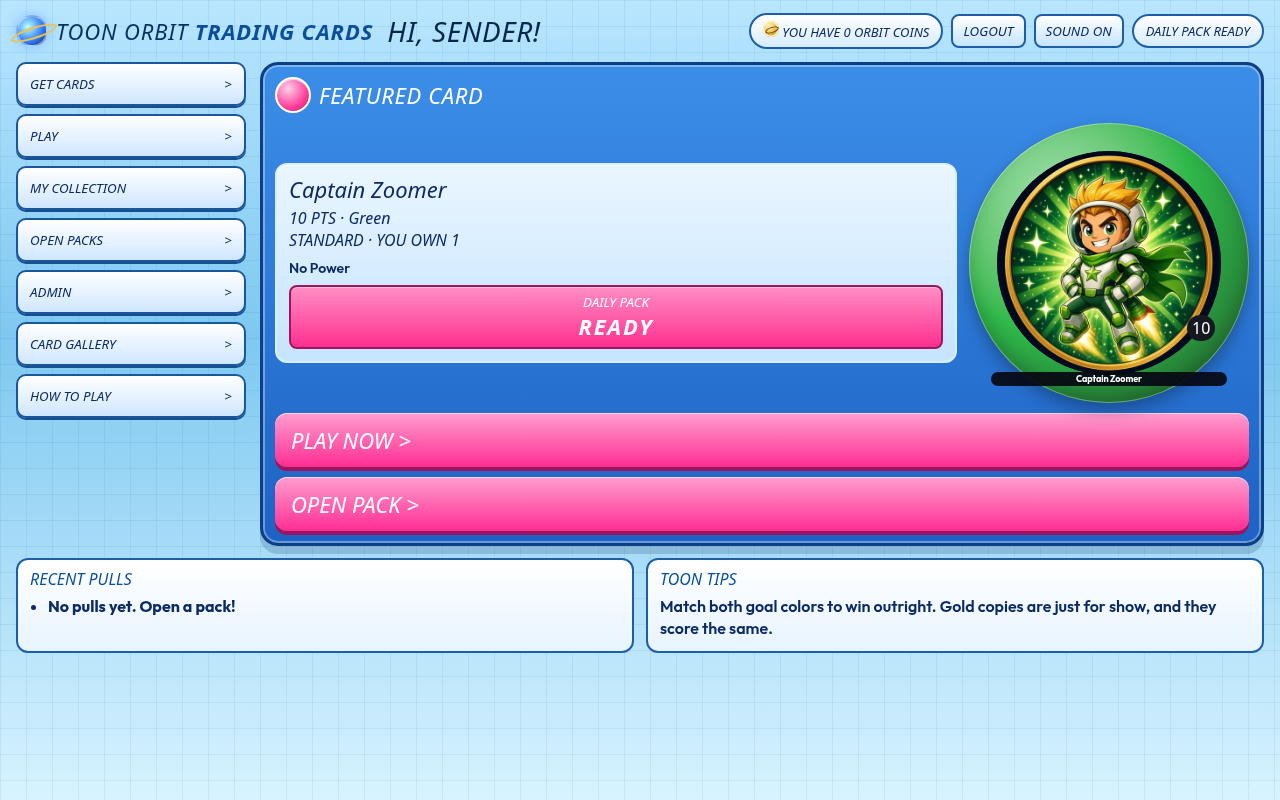
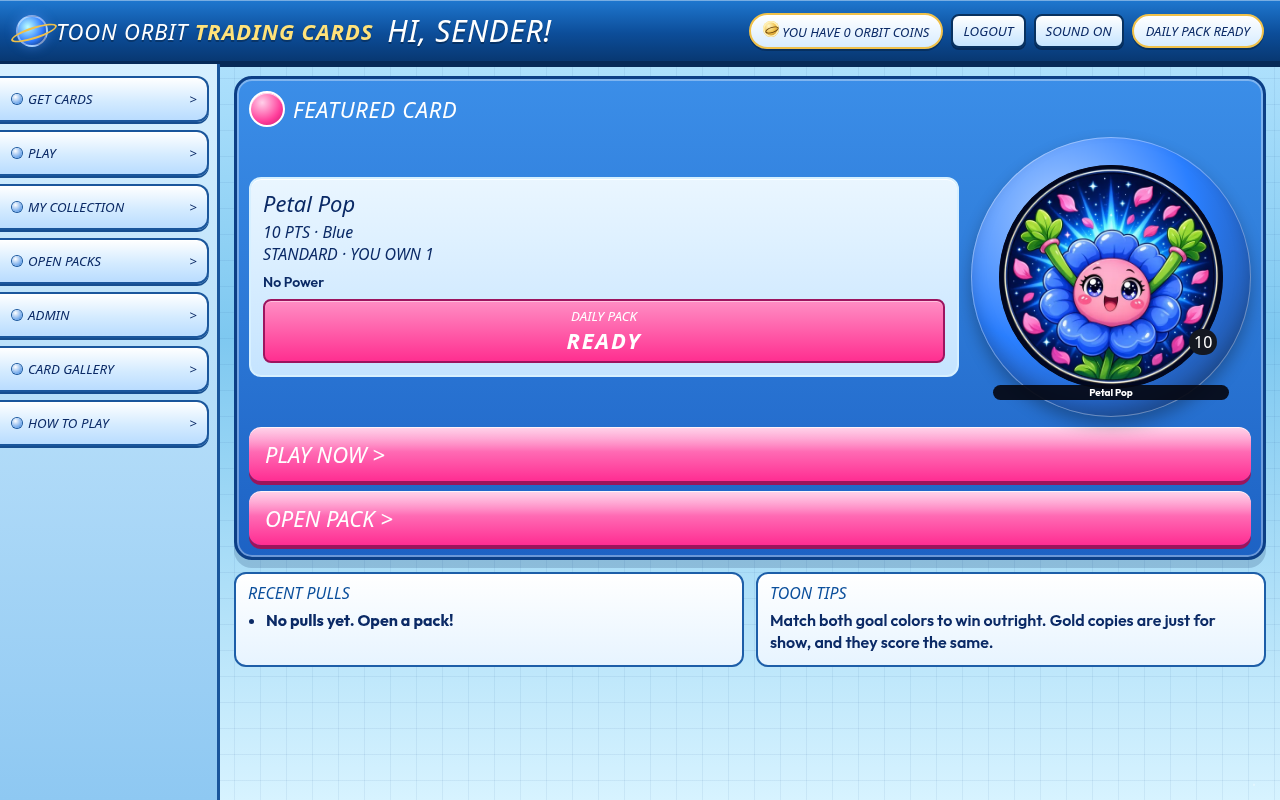
Pin the home tabs to a left rail on every screen.
The glossy portal keeps its menu on the far left, including a slim column on a phone, and the cache version is bumped.

diff --git a/style.css b/style.css
@@ -486,23 +486,33 @@ body:has(#homeScreen) .topbar { display: none; }
     linear-gradient(180deg, #b9e6ff 0%, #7ec8f0 42%, #d7f3ff 100%);
   background-size: 26px 26px, 26px 26px, auto;
   font-family: "Arial Black", Impact, "Segoe UI", sans-serif; }
-.portal-top, .portal-body, .portal-bottom { position: relative; z-index: 1; }
-.portal-top { display: flex; align-items: center; gap: 14px; flex-wrap: wrap; margin-bottom: 12px; }
-.portal-brand { display: flex; align-items: center; gap: 8px; font-style: italic; font-size: 22px; letter-spacing: .04em; color: #08315f; text-transform: uppercase; }
+.portal-top, .portal-shell, .portal-bottom { position: relative; z-index: 1; }
+#homeScreen.portal { display: flex; flex-direction: column; padding: 0; min-height: 100vh; }
+.portal-top { display: flex; align-items: center; gap: 14px; flex-wrap: wrap; margin: 0; padding: 10px 16px;
+  background: linear-gradient(#1f78d0, #0c4d99 55%, #083872);
+  border-bottom: 3px solid #062a58;
+  box-shadow: inset 0 1px 0 rgba(255,255,255,.4), 0 3px 0 #062a58; }
+.portal-brand { display: flex; align-items: center; gap: 8px; font-style: italic; font-size: 22px; letter-spacing: .04em; color: #fff; text-transform: uppercase; text-shadow: 0 2px 0 rgba(0,0,0,.25); }
 .portal-brand .ring { position: relative; left: auto; top: auto; margin: 0; flex: none; }
-.portal-brand b { color: #0b4f9c; }
-.portal-greet { font-style: italic; font-size: 28px; letter-spacing: .02em; color: #06264e; text-transform: uppercase; }
+.portal-brand b { color: #ffe27a; }
+.portal-greet { font-style: italic; font-size: 30px; letter-spacing: .02em; color: #fff; text-transform: uppercase; text-shadow: 0 2px 0 rgba(0,0,0,.28); }
 .portal-tools { margin-left: auto; display: flex; align-items: center; gap: 8px; flex-wrap: wrap; justify-content: flex-end; }
-.portal-pill, .portal-daily { background: linear-gradient(#fff, #d7ecff); border: 2px solid #1d5ea8; border-radius: 999px; padding: 6px 12px; font-style: italic; font-size: 13px; color: #0b2a66; box-shadow: inset 0 1px 0 #fff; }
+.portal-pill, .portal-daily { background: linear-gradient(#fff, #d7ecff); border: 2px solid #f0c14a; border-radius: 999px; padding: 6px 12px; font-style: italic; font-size: 13px; color: #0b2a66; box-shadow: inset 0 1px 0 #fff, 0 2px 0 rgba(0,0,0,.25); }
 .portal-logout, .portal-sound, .portal-tab, .portal-cta, .portal-clock { font-family: "Arial Black", Impact, "Segoe UI", sans-serif; font-style: italic; text-transform: uppercase; cursor: pointer; }
-.portal-logout, .portal-sound { border: 2px solid #1d5ea8; border-radius: 8px; background: linear-gradient(#fff, #c5e4ff); color: #0b2a66; padding: 6px 10px; box-shadow: inset 0 1px 0 #fff; }
-.portal-body { display: flex; gap: 14px; align-items: stretch; }
-.portal-tabs { display: flex; flex-direction: column; gap: 8px; width: 230px; flex: none; }
-.portal-tab { display: flex; justify-content: space-between; align-items: center; width: 100%; min-height: 44px; padding: 8px 12px; border-radius: 10px; border: 2px solid #1a569c; color: #0b2a66;
-  background: linear-gradient(#ffffff, #cfe6ff); box-shadow: inset 0 1px 0 #fff, 0 2px 0 #164e90; }
-.portal-tab:hover, .portal-tab:focus-visible { background: linear-gradient(#fff8d8, #ffd56a); }
+.portal-logout, .portal-sound { border: 2px solid #08315f; border-radius: 8px; background: linear-gradient(#fff, #c5e4ff); color: #0b2a66; padding: 6px 10px; box-shadow: inset 0 1px 0 #fff, 0 2px 0 #062a58; }
+.portal-logout:hover, .portal-sound:hover { background: linear-gradient(#fff8d8, #ffd56a); }
+.portal-shell { display: flex; flex: 1; align-items: stretch; min-width: 0; }
+.portal-tabs { display: flex; flex-direction: column; gap: 8px; width: 220px; flex: none; margin: 0; padding: 12px 8px 12px 0; box-sizing: border-box;
+  background: linear-gradient(180deg, #d7f0ff, #8ec8f2); border-right: 3px solid #1a569c; }
+.portal-tab { display: flex; justify-content: space-between; align-items: center; gap: 6px; width: 100%; min-height: 46px; padding: 8px 10px 8px 12px; border-radius: 0 12px 12px 0; border: 2px solid #1a569c; border-left-width: 0; color: #0b2a66;
+  background: linear-gradient(#ffffff, #d4ebff 55%, #b9dcff); box-shadow: inset 0 1px 0 #fff, 0 2px 0 #164e90; }
+.portal-tab:hover, .portal-tab:focus-visible, .portal-tab:active { background: linear-gradient(#fff6c2, #ffd24a); color: #12305f; }
+.tab-ico { width: 10px; height: 10px; border-radius: 50%; flex: none; background: radial-gradient(circle at 35% 30%, #fff, #2f7fe0); box-shadow: 0 0 0 1px #1a569c; }
+.tab-label { flex: 1; min-width: 0; text-align: left; }
+.tab-short { display: none; }
 .chev { font-style: normal; }
-.portal-main { flex: 1; min-width: 0; }
+.portal-content { flex: 1; min-width: 0; padding: 12px 14px 16px; }
+.portal-main { min-width: 0; }
 .portal-frame { background: linear-gradient(#3b8ee8, #1d62c4); border: 3px solid #0c3f86; border-radius: 18px; padding: 12px; box-shadow: inset 0 0 0 2px rgba(255,255,255,.35), 0 8px 0 rgba(8, 40, 90, .18); }
 .portal-framehead { display: flex; align-items: center; gap: 8px; color: #fff; font-style: italic; font-size: 22px; letter-spacing: .03em; margin-bottom: 10px; }
 .portal-badge { width: 36px; height: 36px; border-radius: 50%; flex: none; background: radial-gradient(circle at 35% 30%, #ffd0ea, #ff3d9a 62%, #c2186a); border: 2px solid #fff; box-shadow: inset 0 1px 0 rgba(255,255,255,.7); }
@@ -514,7 +524,9 @@ body:has(#homeScreen) .topbar { display: none; }
 .portal-clock b { display: block; font-size: 22px; letter-spacing: .08em; font-variant-numeric: tabular-nums; }
 .portal-stage { flex: none; width: min(280px, 34vw); }
 .portal-stage .card { width: 100%; height: auto; aspect-ratio: 1; }
-.portal-cta { display: block; width: 100%; margin-top: 10px; text-align: left; border: 0; border-radius: 12px; padding: 12px 16px; color: #fff; font-size: 22px; background: linear-gradient(#ff9ed0, #ff2d92); box-shadow: inset 0 1px 0 rgba(255,255,255,.55), 0 4px 0 #9c145c; }
+.portal-cta { display: block; width: 100%; margin-top: 10px; text-align: left; border: 0; border-radius: 12px; padding: 12px 16px; color: #fff; font-size: 22px;
+  background: linear-gradient(180deg, rgba(255,255,255,.55), rgba(255,255,255,0) 46%), linear-gradient(#ff9ed0, #ff2d92);
+  box-shadow: inset 0 1px 0 rgba(255,255,255,.7), 0 4px 0 #9c145c; }
 .portal-cta::after { content: "  >"; }
 .portal-cta:hover { filter: brightness(1.05); }
 .portal-bottom { display: flex; gap: 12px; margin-top: 12px; }
@@ -523,14 +535,23 @@ body:has(#homeScreen) .topbar { display: none; }
 .portal-pulls { margin: 0; padding-left: 18px; font-family: "Outfit", "Segoe UI", sans-serif; font-style: normal; font-weight: 650; }
 .portal-box p { margin: 0; font-family: "Outfit", "Segoe UI", sans-serif; font-style: normal; font-weight: 600; line-height: 1.35; }
 @media (max-width: 1099px) {
-  #homeScreen.portal { padding: 8px; }
-  .portal-greet { font-size: 20px; width: 100%; }
-  .portal-tools { margin-left: 0; width: 100%; }
-  .portal-body, .portal-bottom, .portal-feature { flex-direction: column; }
-  .portal-tabs { width: 100%; display: grid; grid-template-columns: 1fr 1fr; }
-  .portal-stage { width: min(220px, 70vw); margin: 0 auto; }
-  .portal-cta { font-size: 18px; min-height: 44px; }
-  .portal-tab { min-height: 44px; }
+  .portal-top { padding: 8px 8px 8px 10px; gap: 6px; }
+  .portal-brand { font-size: 13px; gap: 4px; }
+  .portal-brand .ring { width: 26px; height: 26px; }
+  .portal-greet { font-size: 16px; }
+  .portal-tools { margin-left: 0; width: 100%; gap: 4px; }
+  .portal-pill, .portal-daily, .portal-logout, .portal-sound { font-size: 10px; padding: 4px 6px; }
+  .portal-tabs { width: 118px; padding: 8px 4px 8px 0; gap: 6px; }
+  .portal-tab { min-height: 44px; padding: 4px 4px 4px 6px; font-size: 10px; letter-spacing: 0; }
+  .tab-long { display: none; }
+  .tab-short { display: inline; }
+  .portal-content { padding: 8px; }
+  .portal-feature, .portal-bottom { flex-direction: column; }
+  .portal-info { min-width: 0; padding: 8px; }
+  .portal-cardname { font-size: 16px; }
+  .portal-stage { width: min(150px, 100%); margin: 0 auto; }
+  .portal-cta { font-size: 15px; min-height: 44px; padding: 10px 12px; }
+  .portal-framehead { font-size: 16px; }
 }
 @media (prefers-reduced-motion: reduce) {
   .holo, .spark, .cart, .reward-flip, .burst, .foilpack.shake, .foilpack.idle, .foil-sheen, .foil-bits i, .foil-tear, .goldflash, .goldray { animation: none; }

diff --git a/game.js b/game.js
@@ -1127,7 +1127,7 @@
         : '<li>No pulls yet. Open a pack!</li>';
       const ready = packState.lastDaily !== todayKey();
       const admin = packState.role === 'admin';
-      const tab = (id, label) => `<button type="button" class="portal-tab" id="${id}"><span>${label}</span><span class="chev" aria-hidden="true">&gt;</span></button>`;
+      const tab = (id, label, short) => `<button type="button" class="portal-tab" id="${id}"><span class="tab-ico" aria-hidden="true"></span><span class="tab-label"><span class="tab-long">${label}</span><span class="tab-short">${short}</span></span><span class="chev" aria-hidden="true">&gt;</span></button>`;
       ov.innerHTML = `<div id="homeScreen" class="portal">
         <div class="portal-top">
           <div class="portal-brand"><span class="ring"></span><span class="portal-word">TOON ORBIT <b>TRADING CARDS</b></span></div>
@@ -1139,16 +1139,17 @@
             <div class="portal-daily">${ready ? 'DAILY PACK READY' : 'DAILY PACK CLAIMED'}</div>
           </div>
         </div>
-        <div class="portal-body">
+        <div class="portal-shell">
           <nav class="portal-tabs">
-            ${tab('btnGetCards', 'GET CARDS')}
-            ${tab('btnPlayTab', 'PLAY')}
-            ${tab('btnHomeCollection', 'MY COLLECTION')}
-            ${tab('btnOpenPacks', 'OPEN PACKS')}
-            ${admin ? tab('btnHomeAdmin', 'ADMIN') : ''}
-            ${tab('btnCollection', 'CARD GALLERY')}
-            ${tab('btnRules2', 'HOW TO PLAY')}
+            ${tab('btnGetCards', 'GET CARDS', 'CARDS')}
+            ${tab('btnPlayTab', 'PLAY', 'PLAY')}
+            ${tab('btnHomeCollection', 'MY COLLECTION', 'BINDER')}
+            ${tab('btnOpenPacks', 'OPEN PACKS', 'PACKS')}
+            ${admin ? tab('btnHomeAdmin', 'ADMIN', 'ADMIN') : ''}
+            ${tab('btnCollection', 'CARD GALLERY', 'GALLERY')}
+            ${tab('btnRules2', 'HOW TO PLAY', 'HELP')}
           </nav>
+          <div class="portal-content">
           <section class="portal-main">
             <div class="portal-frame">
               <div class="portal-framehead"><span class="portal-badge" aria-hidden="true"></span> FEATURED CARD</div>
@@ -1166,15 +1167,16 @@
               <button type="button" class="portal-cta" id="btnPacks">OPEN PACK</button>
             </div>
           </section>
-        </div>
-        <div class="portal-bottom">
-          <div class="portal-box">
-            <div class="portal-boxhead">RECENT PULLS</div>
-            <ul class="portal-pulls">${pullList}</ul>
+          <div class="portal-bottom">
+            <div class="portal-box">
+              <div class="portal-boxhead">RECENT PULLS</div>
+              <ul class="portal-pulls">${pullList}</ul>
+            </div>
+            <div class="portal-box">
+              <div class="portal-boxhead">TOON TIPS</div>
+              <p>Match both goal colors to win outright. Gold copies are just for show, and they score the same.</p>
+            </div>
           </div>
-          <div class="portal-box">
-            <div class="portal-boxhead">TOON TIPS</div>
-            <p>Match both goal colors to win outright. Gold copies are just for show, and they score the same.</p>
           </div>
         </div>
       </div>`;

diff --git a/index.html b/index.html
@@ -12,7 +12,7 @@
 <link rel="preconnect" href="https://fonts.gstatic.com" crossorigin>
 <link href="https://fonts.googleapis.com/css2?family=Outfit:wght@400;500;600;700;800&display=swap" rel="stylesheet">
 <link rel="manifest" href="manifest.webmanifest">
-<link rel="stylesheet" href="style.css?v=10">
+<link rel="stylesheet" href="style.css?v=11">
 <link rel="icon" href="icon-192.png" sizes="192x192">
 <link rel="apple-touch-icon" href="icon-192.png">
 </head>
@@ -77,13 +77,13 @@
     </div>
   </div>
 </div>
-<script src="cards.js?v=10"></script>
-<script src="copies.js?v=10"></script>
-<script src="engine.js?v=10"></script>
-<script src="ai.js?v=10"></script>
-<script src="art.js?v=10"></script>
-<script src="supabase-config.js?v=10"></script>
-<script src="auth.js?v=10"></script>
-<script src="game.js?v=10"></script>
+<script src="cards.js?v=11"></script>
+<script src="copies.js?v=11"></script>
+<script src="engine.js?v=11"></script>
+<script src="ai.js?v=11"></script>
+<script src="art.js?v=11"></script>
+<script src="supabase-config.js?v=11"></script>
+<script src="auth.js?v=11"></script>
+<script src="game.js?v=11"></script>
 </body>
 </html>
